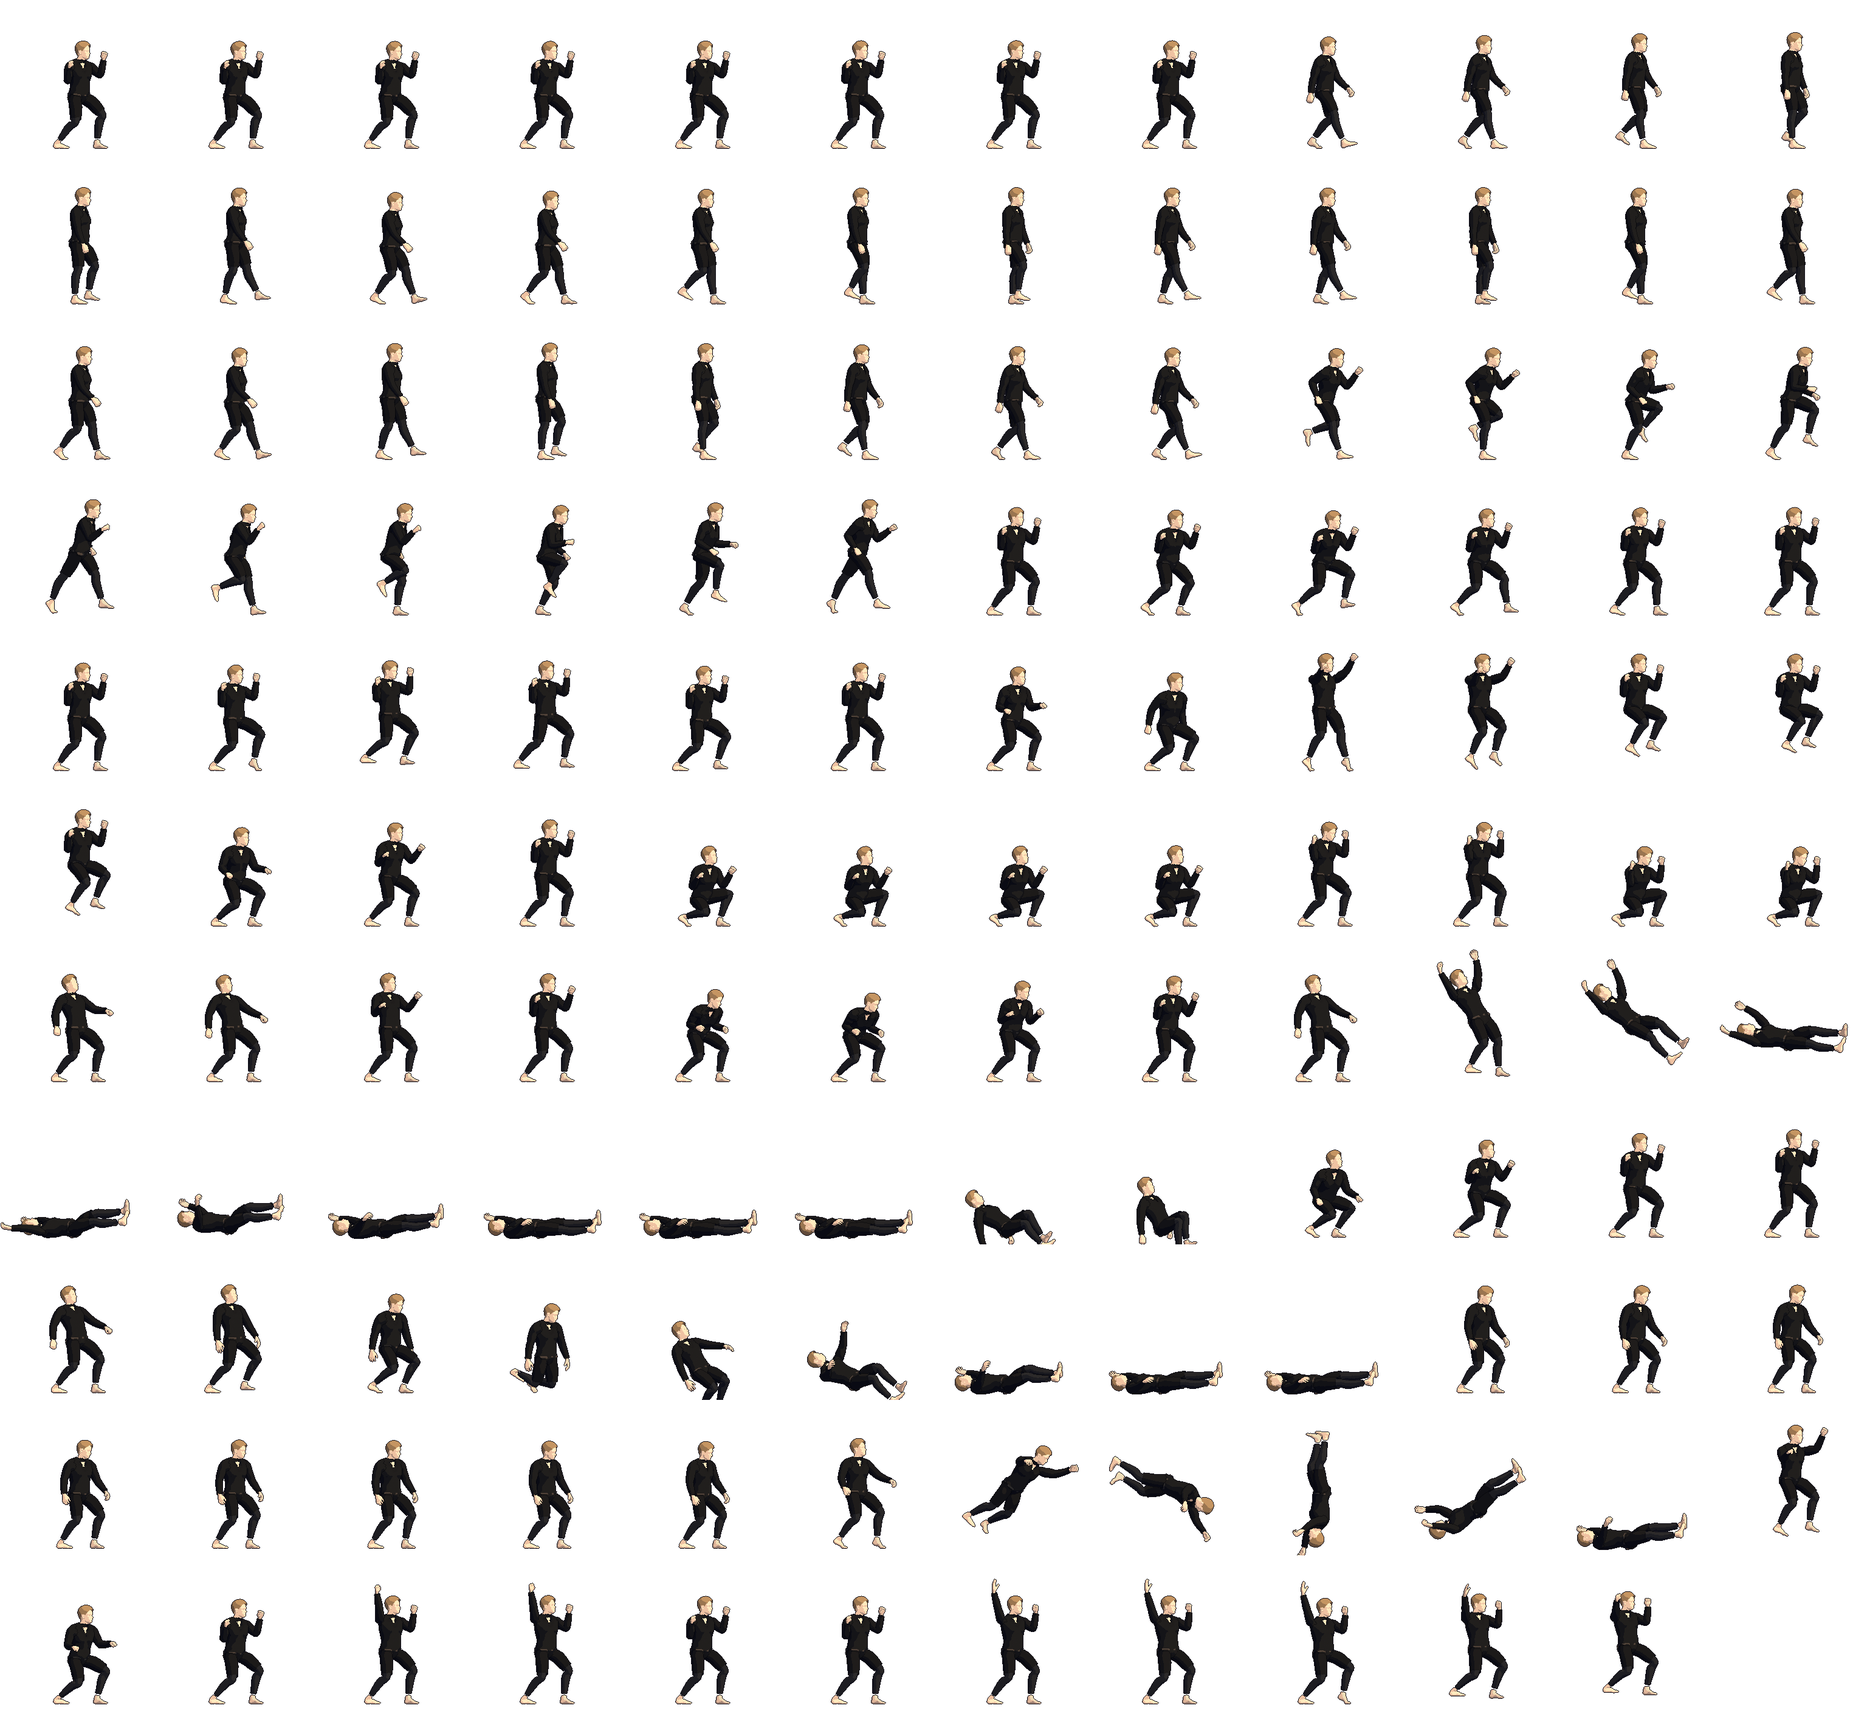
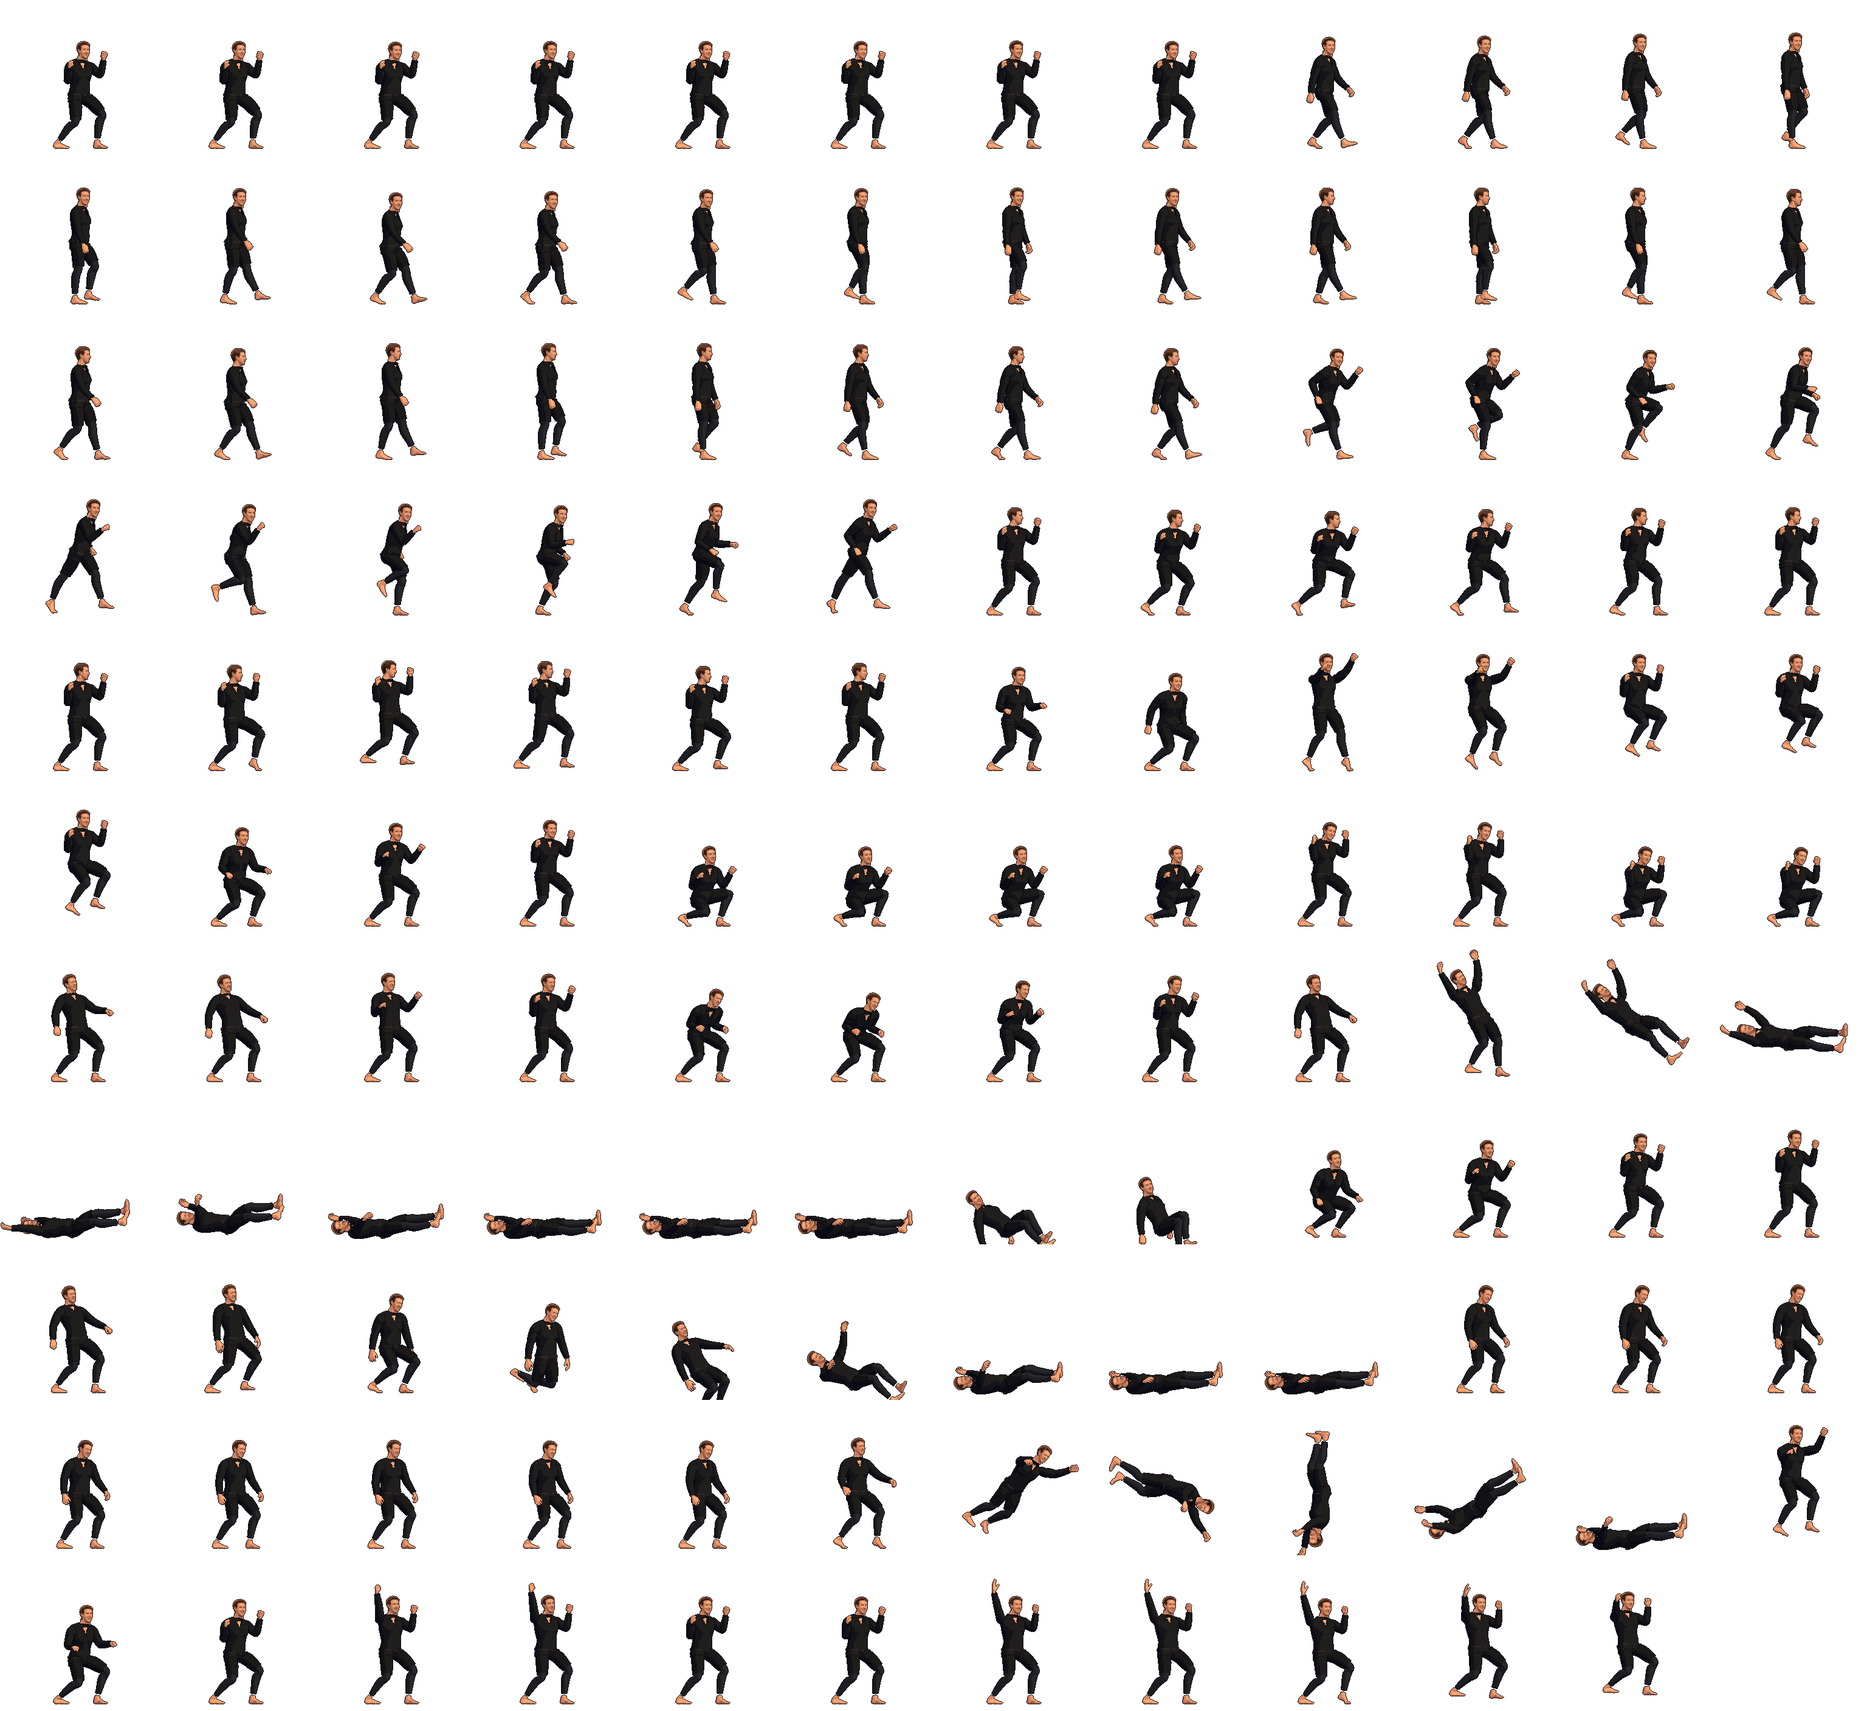
sprites3d: official props hook; rebuild all 16 atlases with the likeness heads
props.py: props.add (bone-parented toon mesh, hidden by default) and
props.register; Pose.props / shared key 'props' take {name: True | transform};
posing.apply_pose keys every registered prop's visibility and transform on
every frame, so props never leak into frames that don't list them. New part
ids prop_front (17, in front of the head) and prop_back (18, behind the body).
Replaces the moves/_props.py monkey-patch.

All 16 atlases rebuilt with PR #12's heads (three-quarter, profile, hurt per
animation; shout for specials, super, victory, intro once the move files land).

diff --git a/tools/sprites3d/blender/props.py b/tools/sprites3d/blender/props.py
@@ -1,0 +1,104 @@
+"""Props: simple meshes parented to rig bones (flamethrower, hex shield, EWI, scarf, ...).
+
+Create a prop once per build with `add` (or attach an object you built yourself with `register`); it starts
+hidden. A pose shows it by listing it in `pose.props` (`shared.pose_from` takes a `props` key, so keyframes can
+too):
+
+    pose.props = {"hex_shield": True}                                    # visible at its attachment
+    pose.props = {"ewi": {"offset": (0, 0.02, 0), "rot": (0, 0, 15)}}    # visible, moved for this frame
+    pose.props = {"scarf": {"visible": True, "scale": (1, 1.4, 1)}}
+
+A transform is relative to the prop's attachment, in the parent bone's frame (`"space": "armature"` reads
+`offset` and `rot` as armature axes instead: forward is -Y, up is +Z). `posing.apply_pose` keys every
+registered prop on every frame: visibility, and the transform (reset to the attachment when the pose gives
+none), so props never leak into frames or animations that don't ask for them.
+"""
+
+import math
+
+import bpy
+from mathutils import Matrix, Vector
+
+_REGISTRY = {}  # name -> (object, attachment matrix_basis)
+
+
+def _rot(deg, size=4):
+    R = Matrix.Identity(size)
+    for axis, d in zip("XYZ", deg):
+        R = R @ Matrix.Rotation(math.radians(d), size, axis)
+    return R
+
+
+def _rig(rig):
+    return rig or bpy.data.objects.get("rig")
+
+
+def add(name, mesh, color, bone, offset=(0, 0, 0), rot=(0, 0, 0), part="prop_front", contrast=1.0,
+        space="bone", rig=None):
+    """Attach `mesh` to `bone` as a toon-shaded prop. With space="bone", `offset` (metres) and `rot` (degrees,
+    XYZ) are in the bone's rest frame at its head (Y runs along the bone); with space="armature" they are
+    armature axes relative to the bone head. `part` is the part id for the depth lines and the head
+    composite: prop_front (in front of everything), prop_back (behind the body), or any outfit part name."""
+    import outfit
+    import toon
+    rig = _rig(rig)
+    b = rig.data.bones[bone]
+    if space == "armature":
+        Rb = b.matrix_local.to_3x3()
+        offset = tuple(Rb.inverted() @ Vector(offset))
+        rot = tuple(math.degrees(a) for a in (Rb.inverted() @ _rot(rot, 3) @ Rb).to_euler("XYZ"))
+    obj = bpy.data.objects.new("prop_" + name, mesh)
+    bpy.context.scene.collection.objects.link(obj)
+    toon.assign(obj, toon.make_toon_material("prop_" + name, color, contrast=contrast))
+    pid = mesh.attributes.get("pid") or mesh.attributes.new("pid", "FLOAT_COLOR", "FACE")
+    for p in mesh.polygons:
+        pid.data[p.index].color = outfit.part_color(part)
+    obj.parent = rig
+    obj.parent_type = "BONE"
+    obj.parent_bone = bone
+    obj.matrix_parent_inverse = (b.matrix_local @ Matrix.Translation((0.0, b.length, 0.0))).inverted()
+    obj.matrix_basis = b.matrix_local @ Matrix.Translation(offset) @ _rot(rot)
+    return register(name, obj)
+
+
+def register(name, obj):
+    """Manage an existing object (already parented and placed) as a prop; its current placement is the
+    attachment that per-frame transforms are relative to."""
+    obj.hide_render = True
+    _REGISTRY[name] = (obj, obj.matrix_basis.copy())
+    return obj
+
+
+def registered():
+    return {name: obj for name, (obj, _) in _REGISTRY.items()}
+
+
+def clear_animation():
+    for obj, _ in _REGISTRY.values():
+        obj.animation_data_clear()
+
+
+def apply(pose, frame):
+    """Key visibility and placement of every registered prop for this frame."""
+    wanted = getattr(pose, "props", None) or {}
+    for name, (obj, base) in _REGISTRY.items():
+        spec = wanted.get(name, False)
+        if isinstance(spec, dict):
+            visible = spec.get("visible", True)
+            offset, rot = Vector(spec.get("offset", (0, 0, 0))), spec.get("rot", (0, 0, 0))
+            scale = spec.get("scale", 1.0)
+            S = Matrix.Diagonal(((scale,) * 3 if isinstance(scale, (int, float)) else tuple(scale)) + (1.0,))
+            if spec.get("space") == "armature" and obj.parent_bone:
+                Rb = obj.parent.data.bones[obj.parent_bone].matrix_local.to_3x3()
+                offset = Rb.inverted() @ offset
+                R = (Rb.inverted() @ _rot(rot, 3) @ Rb).to_4x4()
+            else:
+                R = _rot(rot)
+            obj.matrix_basis = base @ Matrix.Translation(offset) @ R @ S
+        else:
+            visible = bool(spec)
+            obj.matrix_basis = base
+        obj.hide_render = not visible
+        obj.keyframe_insert("hide_render", frame=frame)
+        for path in ("location", "rotation_euler", "scale"):
+            obj.keyframe_insert(path, frame=frame)

diff --git a/tools/sprites3d/blender/shared.py b/tools/sprites3d/blender/shared.py
@@ -2,7 +2,7 @@
 
 States are authored as keyframes of a small parameter set layered over the orthodox guard (`GUARD`): foot
 placement, crouch, lean, chest twist, arm swing/elbow, whole-body rotation for falls and throws, FK legs for
-sitting, kneeling and lying. `pose_from` turns one parameter set into a `gait.Pose`; `keyed` builds a list of
+sitting, kneeling and lying, and `props` (see props.py). `pose_from` turns one parameter set into a `gait.Pose`; `keyed` builds a list of
 poses from keyframes (dicts are merged over the guard, so a key only lists what changes).
 
 Naming: the "lead" side is the rig's left (the far side, leading in an orthodox guard facing right), the
@@ -23,7 +23,7 @@ GUARD = dict(
     crouch=0.16, pelvis_h=None, fwd=0.0,
     yaw=-24.0, lean=5.0, chest_yaw=-36.0, chest_lean=7.0, neck=2.0, head=-1.0, head_roll=0.0,
     lead_arm=(66.0, 108.0, 8.0), rear_arm=(26.0, 132.0, 20.0), fist=1.0, fist_lead=None, fist_rear=None,
-    twist=40.0, body=0.0, roll=0.0, lead_fk=None, rear_fk=None,
+    twist=40.0, body=0.0, roll=0.0, lead_fk=None, rear_fk=None, props=None,
 )
 
 
@@ -70,6 +70,7 @@ def pose_from(sk, p):
     pose.neck = rz(cy * 0.4) @ rx(q["neck"])
     pose.head = rz(cy * 0.15) @ rx(q["head"]) @ ry(q["head_roll"])
     pose.body = rx(q["body"]) @ ry(q["roll"])
+    pose.props = dict(q["props"] or {})
     return pose
 
 
@@ -81,7 +82,7 @@ def tween(a, b, t):
     out = {}
     for k in qa:
         va, vb = qa[k], qb[k]
-        if va is None or vb is None:
+        if va is None or vb is None or isinstance(va, dict) or isinstance(vb, dict):
             out[k] = va if t < 0.5 else vb
         elif isinstance(va, tuple) or isinstance(vb, tuple):
             out[k] = tuple(x + (y - x) * t for x, y in zip(va, vb))

diff --git a/tools/sprites3d/blender/build.py b/tools/sprites3d/blender/build.py
@@ -33,6 +33,7 @@ import headmeta  # noqa: E402
 import human  # noqa: E402
 import outfit  # noqa: E402
 import posing  # noqa: E402
+import props  # noqa: E402
 import shared  # noqa: E402
 import toon  # noqa: E402
 
@@ -140,6 +141,7 @@ def render_animation(name, poses, fps, rig, rest, sk, cam, ppm, out_dir, id_mat,
     os.makedirs(out_dir, exist_ok=True)
     sc = bpy.context.scene
     rig.animation_data_clear()
+    props.clear_animation()
     order = posing.bone_order(rig)
     for i, pose in enumerate(poses):
         posing.apply_pose(rig, rest, order, pose, i + 1)

diff --git a/tools/sprites3d/post/process.py b/tools/sprites3d/post/process.py
@@ -34,7 +34,8 @@ HERE = os.path.dirname(os.path.abspath(__file__))
 HEADS = os.path.join(HERE, "..", "heads")
 
 # Mirrors outfit.PART_IDS (id: depth rank). Kept here so this script runs without Blender.
-PART_RANK = {1: 5, 2: 5, 3: 4, 4: 4, 5: 8, 6: 1, 7: 8, 8: 1, 9: 3, 10: 6, 11: 2, 12: 6, 13: 2, 14: 4, 15: 8, 16: 1}
+PART_RANK = {1: 5, 2: 5, 3: 4, 4: 4, 5: 8, 6: 1, 7: 8, 8: 1, 9: 3, 10: 6, 11: 2, 12: 6, 13: 2, 14: 4, 15: 8, 16: 1,
+             17: 9, 18: 0}
 HEAD_PARTS = (1, 2)
 NECK_PARTS = (3,)
 TORSO_PARTS = (4, 14)

diff --git a/tools/sprites3d/blender/gait.py b/tools/sprites3d/blender/gait.py
@@ -75,6 +75,7 @@ class Pose:
     contact: dict = field(default_factory=dict)      # side -> True while the foot is planted
     body: Quaternion = field(default_factory=Quaternion)  # whole-body rotation about the pelvis (falls, throws)
     leg_fk: dict = field(default_factory=dict)       # side -> (hip, knee, foot) degrees: FK leg instead of IK
+    props: dict = field(default_factory=dict)        # prop name -> True/False or a transform dict (props.py)
 
 
 class Skeleton:

diff --git a/tools/sprites3d/blender/posing.py b/tools/sprites3d/blender/posing.py
@@ -9,6 +9,7 @@ import math
 
 from mathutils import Matrix, Quaternion, Vector
 
+import props
 from gait import FWD, LAT, rx, rz
 
 FINGERS = ("thumb", "index", "middle", "ring", "pinky")
@@ -149,3 +150,4 @@ def apply_pose(rig, rest, order, pose, frame):
         if name == "pelvis":
             pb.location = Rb.inverted() @ pose.pelvis_offset
             pb.keyframe_insert("location", frame=frame)
+    props.apply(pose, frame)

diff --git a/tools/sprites3d/blender/outfit.py b/tools/sprites3d/blender/outfit.py
@@ -19,6 +19,7 @@ PART_IDS = {
     "legs": (9, 3), "leg_near": (10, 6), "leg_far": (11, 2),
     "shoe_near": (12, 6), "shoe_far": (13, 2),
     "outer_torso": (14, 4), "outer_arm_near": (15, 8), "outer_arm_far": (16, 1),
+    "prop_front": (17, 9), "prop_back": (18, 0),
 }
 
 

diff --git a/tools/sprites3d/README.md b/tools/sprites3d/README.md
@@ -101,29 +101,48 @@ with a warning, and the shared build still completes.
 
 ## Likeness heads
 
-The post stage composites `tools/sprites3d/heads/<id>.png` (the three-quarter view) and `<id>-<view>.png`, for
-example `-profile`, `-hurt` or `-victory`. Each animation picks a view: run uses `profile`; `hit_high`, `hit_low`,
-`knockdown`, `ko`, `dazed` and `thrown` use `hurt`. A missing view falls back to the three-quarter head, and without
-any head image the generic 3D head stays.
+The heads come from PR #12: `tools/sprites3d/heads/<id>_{tq,profile,hurt,shout}.png`, with `heads/heads.json`
+recording each file's crown, chin and neck-cut rows (in `source_height` units). `heads/make_heads.py` regenerates
+them from the source sheets.
 
-- **Image format:** head and neck, facing right, on a transparent background.
-- **Measurements:** `post/headmeta.py` finds the crown (top of the alpha), the chin (where the face edge recedes
-  fastest into the neck) and the neck cut. Override any of them with a sidecar `<id>-<view>.json` such as
-  `{"crown": 51, "chin": 360, "neck_cut": 390, "flip": false}` in image rows, or under `head.views.<view>` in the
-  fighter config.
-- **Size and placement:** the head is scaled to 1/`heads_tall` of the fighter's height (default 7.2). It is aligned
-  to the 3D crown and face on the idle pose, then rotated about that pivot with the head bone, so it stays attached
-  when the fighter tilts, falls, lies down or flips.
-- **Neck seam:** the 3D skin takes the head's neck tone (`skin_from_head`, on by default). In a narrow band above
-  the neck cut, the 3D neck and collar draw over the 2D head.
-- **Generated heads:** `post/prep_head.py` keys a generated head off a flat background.
+Each fighter config's `head` block points at `heads/<id>_tq.png` and lists every view with its rows, copied from
+`heads.json`. Without a `views` block, the renderer discovers `heads/<id>.png`, `<id>-<view>.png` and
+`<id>_<view>.png` itself and measures the rows from the alpha (`post/headmeta.py`). Sidecar `<id>_<view>.json`
+files override them. Without any head image, the generic 3D head stays.
 
-Sam's current head, `heads/sam.png`, was generated from these reference photos from Wikimedia Commons:
+**View per animation** (`process.HEAD_RULES`; an animation's explicit non-default `head`, or the config's
+`head.by_anim`, wins):
 
-- [Meeting with Masayoshi Son and Sam Altman (February 3, 2025)](https://commons.wikimedia.org/wiki/File:Meeting_with_Masayoshi_Son_and_Sam_Altman_(February_3,_2025)_(3x4_cropped_on_Altman).jpg),
-  Office of the Prime Minister of Japan, CC BY 4.0.
-- [Ilya Sutskever and Sam Altman in TAU](https://commons.wikimedia.org/wiki/File:Ilya_Sutskever_and_Sam_Altman_in_TAU.jpg),
-  Eladkarmel, CC BY-SA 4.0.
+| View | Animations |
+| --- | --- |
+| profile | `walk_back`, `dash_fwd`, `dash_back` |
+| hurt | `hit_high`, `hit_low`, `knockdown`, `ko`, `dazed`, `thrown` |
+| shout | `special*`, `super*`, `victory*`, `intro*`, `finisher*` |
+| three-quarter | everything else; also the fallback when a view is missing |
+
+**Placement.** Each view is scaled to 1/`heads_tall` of the fighter's height. It is aligned to the 3D crown and
+face on the idle pose, then rotated about that pivot with the head bone, so it stays attached when the fighter
+tilts, falls, lies down or flips. The 3D skin takes its tone from lit skin pixels on the three-quarter head's lower
+face and neck. In a narrow band above the neck cut, the 3D neck and collar draw over the 2D head, so the joint shows
+no seam. Fei-Fei's neck cut deliberately sits at the bottom of her hair, so the hair falls over her shoulders.
+
+## Props
+
+Props are simple meshes parented to bones, such as a flamethrower, hydrofoil, hex shield, EWI or scarf
+(`blender/props.py`). Create one per build with `props.add(name, mesh, color, bone, offset, rot, part="prop_front",
+space="bone")`, or call `props.register(name, obj)` for an object you placed yourself. A prop starts hidden. A pose
+shows it through `pose.props`, which a `shared.pose_from` key can also carry as `props`:
+
+```python
+{"hex_shield": True}                                           # visible at its attachment
+{"ewi": {"offset": (0, 0.02, 0), "rot": (0, 0, 15)}}           # visible and moved for this frame
+{"scarf": {"visible": True, "scale": (1, 1.4, 1), "space": "armature"}}
+```
+
+`posing.apply_pose` keys every registered prop on every frame: its visibility, and its transform (reset to the
+attachment when the pose gives none). A prop therefore never leaks into frames or animations that don't list it,
+the shared states included. The `prop_front` part draws in front of everything, including the 2D head;
+`prop_back` draws behind the body.
 
 ## Bodies, outfits, rendering
 
@@ -169,5 +188,4 @@ CC0.
 - Clothing is pushed-out body geometry: no cloth simulation, jacket flaps or hoods.
 - Long hair and caps must come from the 2D head, which is drawn behind the torso near the neck.
 - The 2D head turns only between the views supplied. Within a view it rotates in the image plane.
-- Only Sam has a likeness head so far. The other fighters show the generic 3D head until their heads land in
-  `heads/`; then rebuild them with `build_all.sh`.
+- Heads cover four views (three-quarter, profile, hurt, shout). A new expression needs a new file and a rule.
